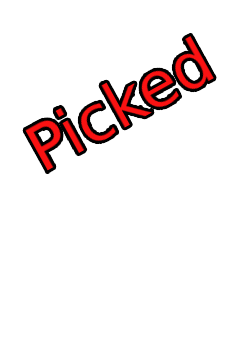
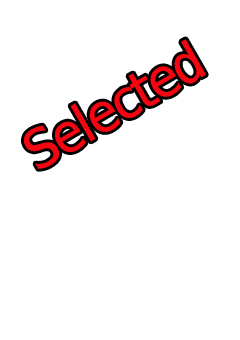
picked->autoremove, "select N card"
change "picked" png for "selected"

add "autoremove" png only when picksPerPack>1

add "select N card/s" to Grid.zone

Changed region(s): [[0.0875, 0.0882, 0.9042, 0.5294]]

diff --git a/frontend/src/game/Grid.jsx b/frontend/src/game/Grid.jsx
@@ -43,11 +43,13 @@ const zone = (zoneName, index) => {
 
   const zoneTitle = zoneDisplayName + (zoneName === ZONE_PACK ? " " + App.state.round : "");
   const zoneDetails = getZoneDetails(App.state, zoneName, cards);
+  const selectUpTo = 'select ' + Math.min(App.state.picksPerPack,cards.length) + 
+                  (Math.min(App.state.picksPerPack,cards.length)>1? ' cards': ' card');
 
   return (
     <div className='zone' key={index}>
       <h1>
-        <Spaced elements={[zoneTitle, zoneDetails]}/>
+        <Spaced elements={[zoneTitle, zoneDetails, selectUpTo]}/>
       </h1>
       {cards.map((card, i) =>
         <Card key={i+zoneName+card.name+card.foil} card={card} zoneName={zoneName} />

diff --git a/frontend/src/gamestate.js b/frontend/src/gamestate.js
@@ -198,7 +198,7 @@ class GameState extends EventEmitter {
   }
 
   isAutoremovableAutopick(cardId) {
-    if (this.#autopickCardIds.length == this.#picksPerPack){
+    if (this.#autopickCardIds.length == this.#picksPerPack && this.#picksPerPack > 1){
       return this.#autopickCardIds[0] == cardId.toString();
     }
   }
